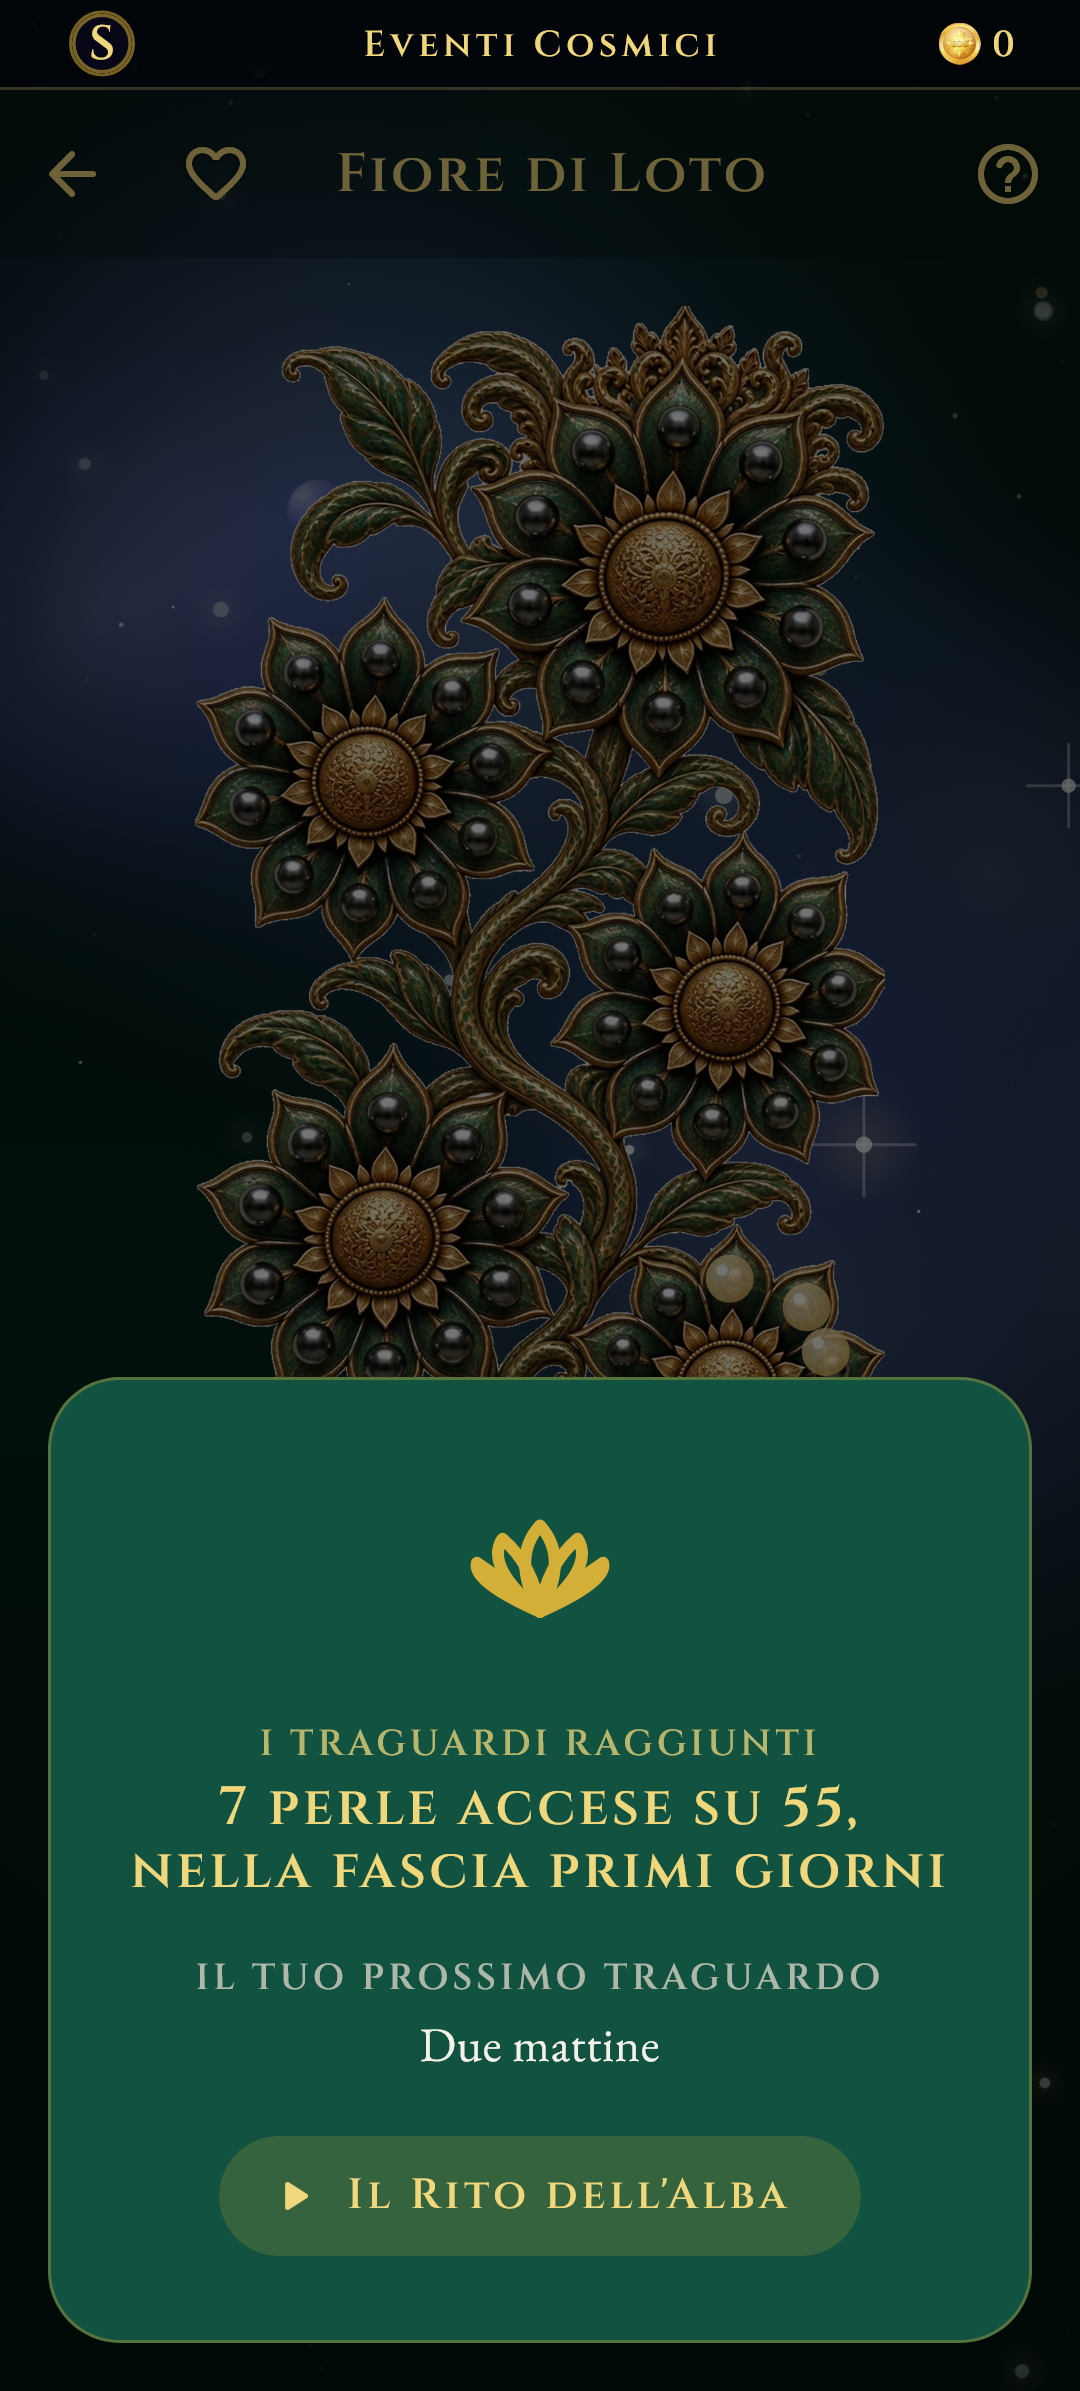
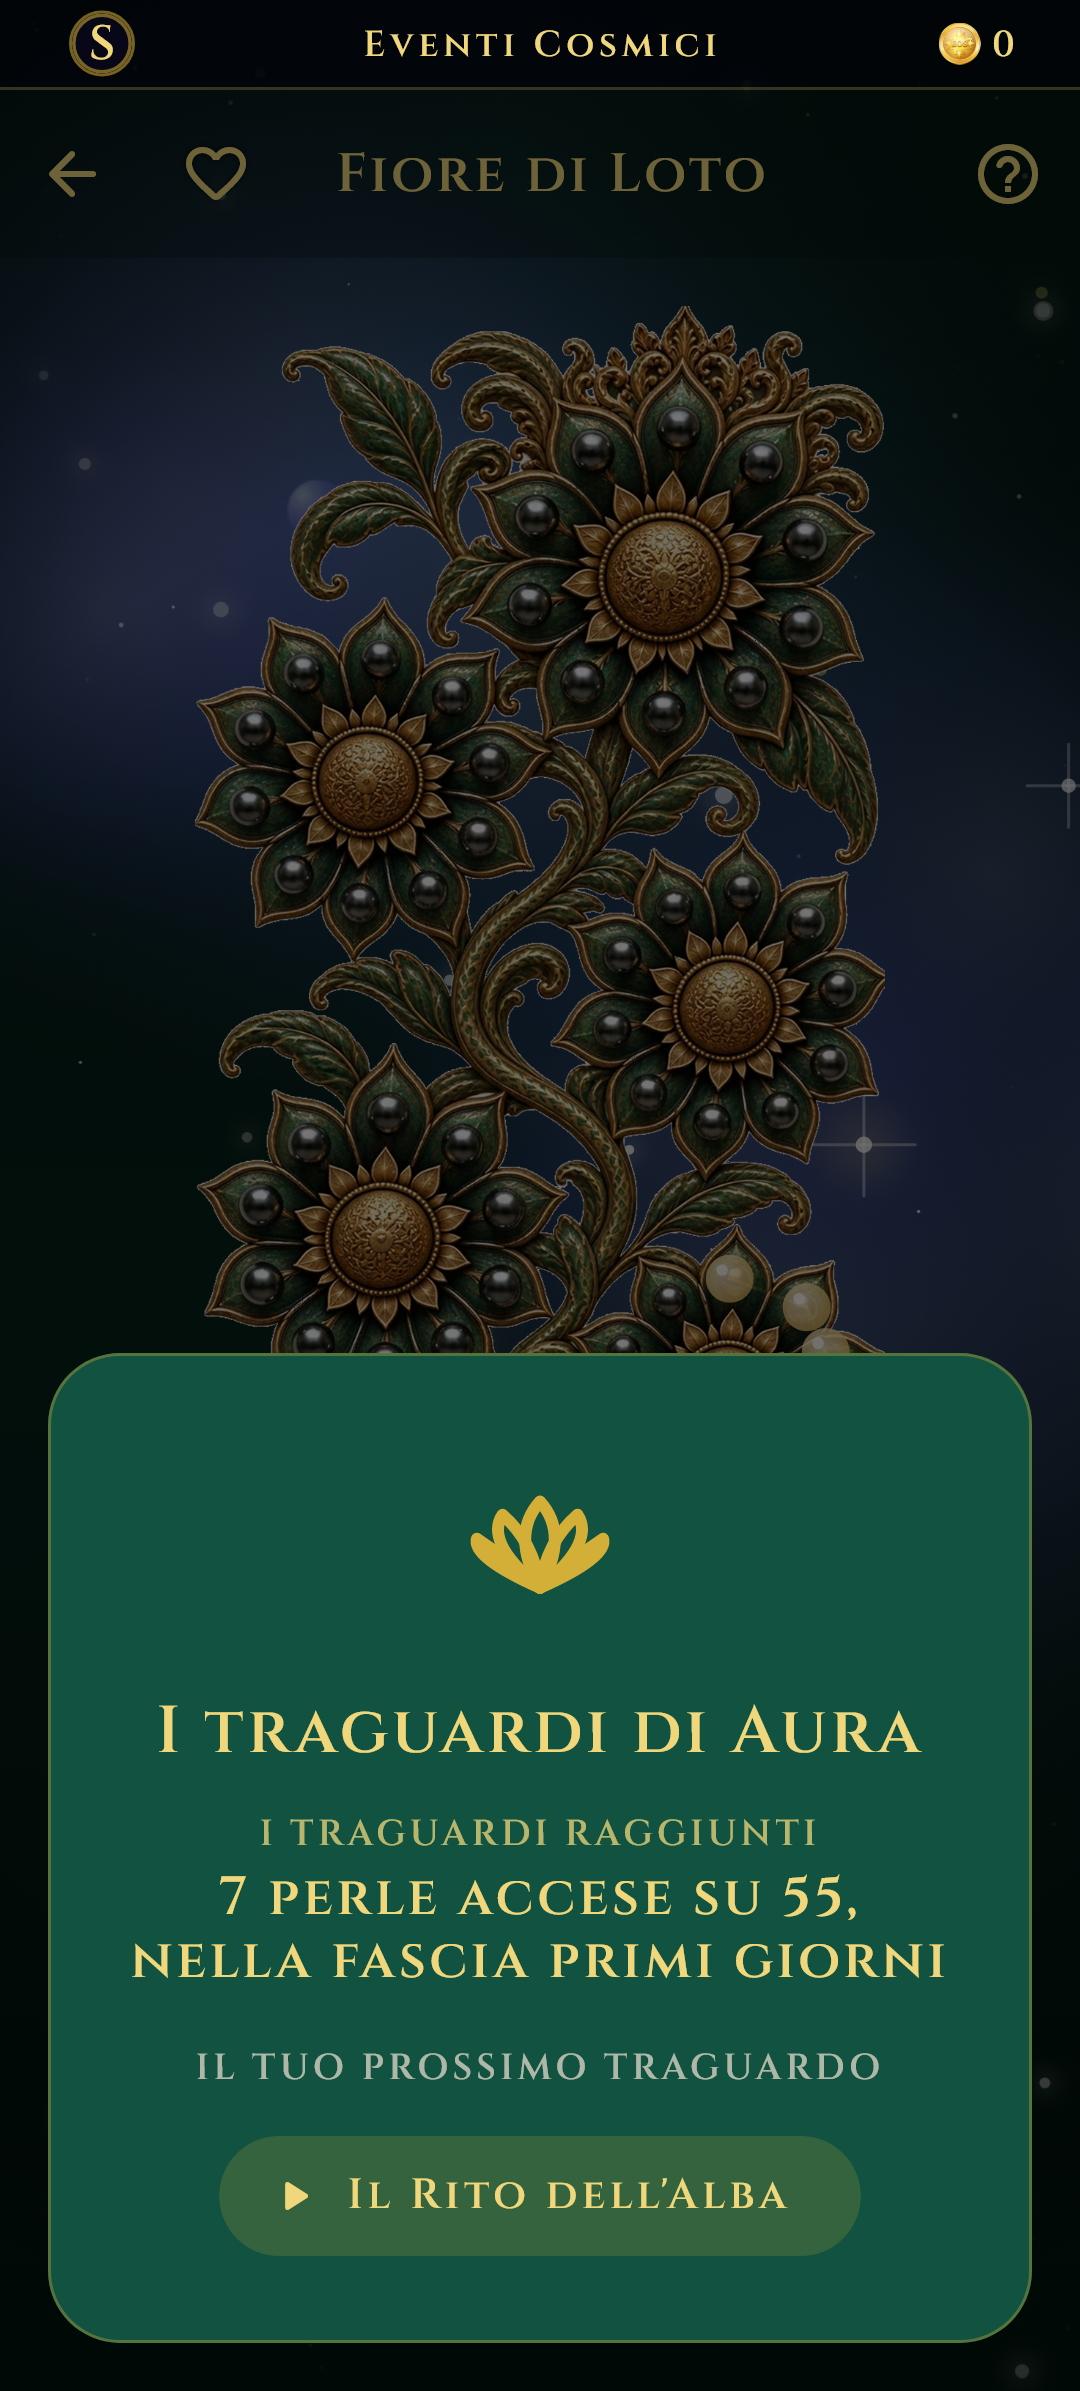
BE.04: la bolla del sentiero inizia col Maestro, e la riga di mezzo se ne va dopo tre campi bocciati
Il titolo chiesto dal fondatore apre la bolla: I traguardi di Aura, o del
Maestro del sentiero. La frase nuda Il cielo di oggi ti riguarda sparisce,
e la storia dei tre campi sta scritta nel codice: frase era al passato per
costruzione (BC.06), nome nudo non significa niente (parole del fondatore
sulla 2199), e percheConta, montato e GUARDATO sull anteprima, parla al
progetto e non alla persona: trasforma un app aperta per curiosita in un
appuntamento e' linguaggio di design, bocciato dall occhio prima che da
lui. Il prossimo traguardo lo dice il PULSANTE, che porta il nome dell arte
da compiere ed e' l unica cosa che una persona possa davvero fare.

Le prove seguono: cinque testi con voci nuove, il divieto su tutti e tre i
campi come riga di mezzo, e cosa manca letto dal pulsante. Anteprima
rigenerata e guardata.

Changed region(s): [[0.1222, 0.7118, 0.8861, 0.8666], [0.0306, 0.5571, 0.9472, 0.619], [0.4278, 0.619, 0.5806, 0.6809]]

diff --git a/lib/features/sigilli/la_mappa_del_sentiero.dart b/lib/features/sigilli/la_mappa_del_sentiero.dart
@@ -145,6 +145,17 @@ class _FoglioDellaMappa extends StatelessWidget {
               colore: palette.gold,
             ),
             const SizedBox(height: SpacingTokens.md),
+            // **IL TITOLO DEL MAESTRO, ordine BE voce 04.** Parole del
+            // fondatore: "la stessa bolla deve iniziare con il titolo 'I
+            // traguardi di Aura' o altro nome del Maestro corrispondente".
+            Text(
+              'I traguardi di ${sentiero.maestro.displayName}',
+              key: const Key('mappa_titolo_maestro'),
+              textAlign: TextAlign.center,
+              style: TypographyTokens.titoloSezione()
+                  .copyWith(color: palette.goldSoft),
+            ),
+            const SizedBox(height: SpacingTokens.sm),
             // **1. DOVE SEI, E ADESSO SI SA CHE COSA SI STA LEGGENDO.**
             // Ordine BC voce 06.
             //
@@ -184,30 +195,19 @@ class _FoglioDellaMappa extends StatelessWidget {
                 ),
               ),
               const SizedBox(height: 2),
-              // **IL NOME, NON LA FRASE, ED E' IL CUORE DI QUESTA VOCE.**
-              //
-              // Parole del fondatore: "e' sbagliato scrivere 'il primo test
-              // archetipo completato' perche' quel test non e' mai stato
-              // fatto". **Aveva ragione, e il campo sbagliato aveva il nome
-              // giusto scritto sopra**: `frase` e' dichiarata nel modello
-              // come *"LA FRASE WOW"*, cioe' quella della festa, che si legge
-              // una volta sola nell'istante in cui il Sigillo si accende. E'
-              // al passato per costruzione, perche' festeggia una cosa appena
-              // avvenuta. Usarla per annunciare cio' che manca vuol dire
-              // dichiarare compiuto cio' che non e' nemmeno cominciato.
-              //
-              // `nome` e' *"il nome proprio del traguardo, quello che si legge
-              // sul sentiero"*, ed e' scritto al presente: per lo stesso
-              // traguardo vale "Sai quale archetipo ti somiglia", che dice
-              // cosa avrai invece di fingere che tu ce l'abbia gia'.
-              Text(
-                prossimo.nome,
-                key: const Key('mappa_cosa_manca'),
-                textAlign: TextAlign.center,
-                style: TypographyTokens.corpo()
-                    .copyWith(color: ColorTokens.textPrimary, height: 1.4),
-              ),
-              const SizedBox(height: SpacingTokens.md),
+              // **LA RIGA DI MEZZO NON C'E' PIU', ed e' una scelta a tre
+              // campi bocciati.** BC.06 tolse `frase`, al passato per
+              // costruzione; al suo posto mise `nome`, e sulla 2199 il
+              // fondatore ha letto "Il cielo di oggi ti riguarda" nudo e ha
+              // detto che non significa niente: aveva ragione. La terza
+              // strada provata, `percheConta`, e' stata montata e GUARDATA:
+              // parla al fondatore e non alla persona ("trasforma un'app
+              // aperta per curiosita' in un appuntamento" e' linguaggio di
+              // progetto), quindi bocciata dall'anteprima prima che da lui.
+              // Ordine BE voce 04: il prossimo traguardo lo dice il
+              // PULSANTE, che porta il nome dell'arte da compiere ed e' la
+              // sola cosa che una persona possa davvero fare.
+              const SizedBox(height: SpacingTokens.xs),
               // 3. DA DOVE SI COMINCIA, e si tocca.
               FilledButton.icon(
                 key: const Key('mappa_da_dove_si_comincia'),

diff --git a/test/la_mappa_del_sentiero_test.dart b/test/la_mappa_del_sentiero_test.dart
@@ -64,18 +64,23 @@ void main() {
 
       final doveSei =
           tester.widget<Text>(find.byKey(const Key('mappa_dove_sei'))).data!;
-      final cosaManca =
-          tester.widget<Text>(find.byKey(const Key('mappa_cosa_manca'))).data!;
+      // **COSA MANCA LO DICE IL PULSANTE, ordine BE voce 04**: la riga di
+      // mezzo e' stata tolta dopo tre campi bocciati, e il prossimo
+      // traguardo parla con il nome dell'arte da compiere.
       final daDove = find.byKey(const Key('mappa_da_dove_si_comincia'));
+      final cosaManca = tester
+          .widget<Text>(
+              find.descendant(of: daDove, matching: find.byType(Text)))
+          .data!;
       // ignore: avoid_print
       print('ORDINE AU VOCE 13: ${sentiero.name}\n  dove sei: "$doveSei"\n'
-          '  cosa manca: "$cosaManca"');
+          '  la porta: "$cosaManca"');
       expect(doveSei, contains('2 perle accese su 55'),
           reason: 'la prima riga non dice dove sei');
       expect(doveSei.toLowerCase(), contains('fascia'),
           reason: 'la prima riga non dice in che fascia stai');
       expect(cosaManca, isNotEmpty,
-          reason: 'la seconda riga non dice cosa manca');
+          reason: 'il pulsante della porta non dice quale arte compiere');
       expect(daDove, findsOneWidget,
           reason: 'manca la porta dell arte, che deve essere toccabile');
     });
@@ -98,6 +103,13 @@ void main() {
     // **La regola non si allenta, cambia di numero.** Cinque e' esatto e non
     // e' un tetto comodo: due titoli, due contenuti, e nient'altro. Se
     // domani ne comparisse un sesto, questa riga lo direbbe come prima.
+    //
+    // **E RESTA CINQUE, ordine BE voce 04, ma con voci diverse**: entra il
+    // titolo "I traguardi di [Maestro]" chiesto dal fondatore, ed esce la
+    // riga di mezzo del prossimo traguardo, perche' tutti e tre i campi
+    // possibili sono stati bocciati (frase al passato, nome nudo senza
+    // senso, percheConta che parla al progetto). Il prossimo traguardo lo
+    // dice il pulsante.
     final testi = find
         .descendant(
             of: find.byType(BottomSheet), matching: find.byType(Text))

diff --git a/test/la_bolla_dei_traguardi_dice_quale_e_quale_test.dart b/test/la_bolla_dei_traguardi_dice_quale_e_quale_test.dart
@@ -47,12 +47,24 @@ void main() {
     // la scelta del campo il cuore di questa voce. Che a schermo compaiano i
     // due titoli lo misura l altra prova, contando i testi del foglio.
     final sorgente = _leggi('lib/features/sigilli/la_mappa_del_sentiero.dart');
-    expect(sorgente.contains('prossimo.nome'), isTrue,
-        reason: 'la bolla non mostra il nome del prossimo traguardo');
+    // **IL CAMPO E' CAMBIATO DI NUOVO, ordine BE voce 04, ed e' il terzo
+    // capitolo.** BC.06 tolse `frase` (al passato per costruzione) e mise
+    // `nome`; sulla 2199 il fondatore ha letto il nome nudo, "Il cielo di
+    // oggi ti riguarda", e ha detto che messo li' cosi' non significa
+    // niente. Adesso parla `percheConta`, il campo che per documentazione
+    // "si legge PRIMA, sul sentiero": la frase della festa resta vietata
+    // come prima.
+    expect(sorgente.contains('prossimo.percheConta'), isFalse,
+        reason: 'la bolla mostra il perche conta, che parla al progetto e '
+            'non alla persona: bocciato guardando l anteprima (BE.04)');
+    expect(sorgente.contains('prossimo.nome'), isFalse,
+        reason: 'la bolla e tornata al nome nudo che il fondatore ha '
+            'bocciato sulla 2199');
     expect(sorgente.contains('prossimo.frase'), isFalse,
         reason: 'la bolla e tornata a mostrare la frase della festa per '
             'annunciare cio che manca');
     for (final chiave in const [
+      'mappa_titolo_maestro',
       'mappa_titolo_raggiunti',
       'mappa_titolo_prossimo',
     ]) {

diff --git a/docs/ordini/ORDINE_BE_MANIFESTO.md b/docs/ordini/ORDINE_BE_MANIFESTO.md
@@ -65,7 +65,7 @@ per conto suo.
 - **BE.01** I Maestri: lo spazio sotto e la fluttuazione. Stato: APERTA
 - **BE.02** L'onboarding sotto la barra. Stato: APERTA
 - **BE.03** La citta' straniera. Stato: APERTA
-- **BE.04** La bolla dei sentieri: titolo e frase. Stato: APERTA
+- **BE.04** La bolla dei sentieri: titolo e frase. Stato: CHIUSA
 - **BE.05** La card vecchia va demolita. Stato: CHIUSA
 - **BE.06** Il Rito dell'Alba: posizione muta e testi sul mare. Stato: APERTA
 - **BE.07** La cancellazione immediata e il ritorno dei dati. Stato: APERTA
@@ -88,8 +88,8 @@ per conto suo.
 ## I marcatori
 
 VOCI_TOTALI: 10
-VOCI_APERTE: 8
-VOCI_CHIUSE: 2
+VOCI_APERTE: 7
+VOCI_CHIUSE: 3
 VOCI_FERMATE_SU_PREMESSA_FALSA: 0
 VOCI_FERMATE_SU_DECISIONE_DEL_FONDATORE: 0
 VOCI_FERMATE_IN_ATTESA_DI_DECISIONE: 0
